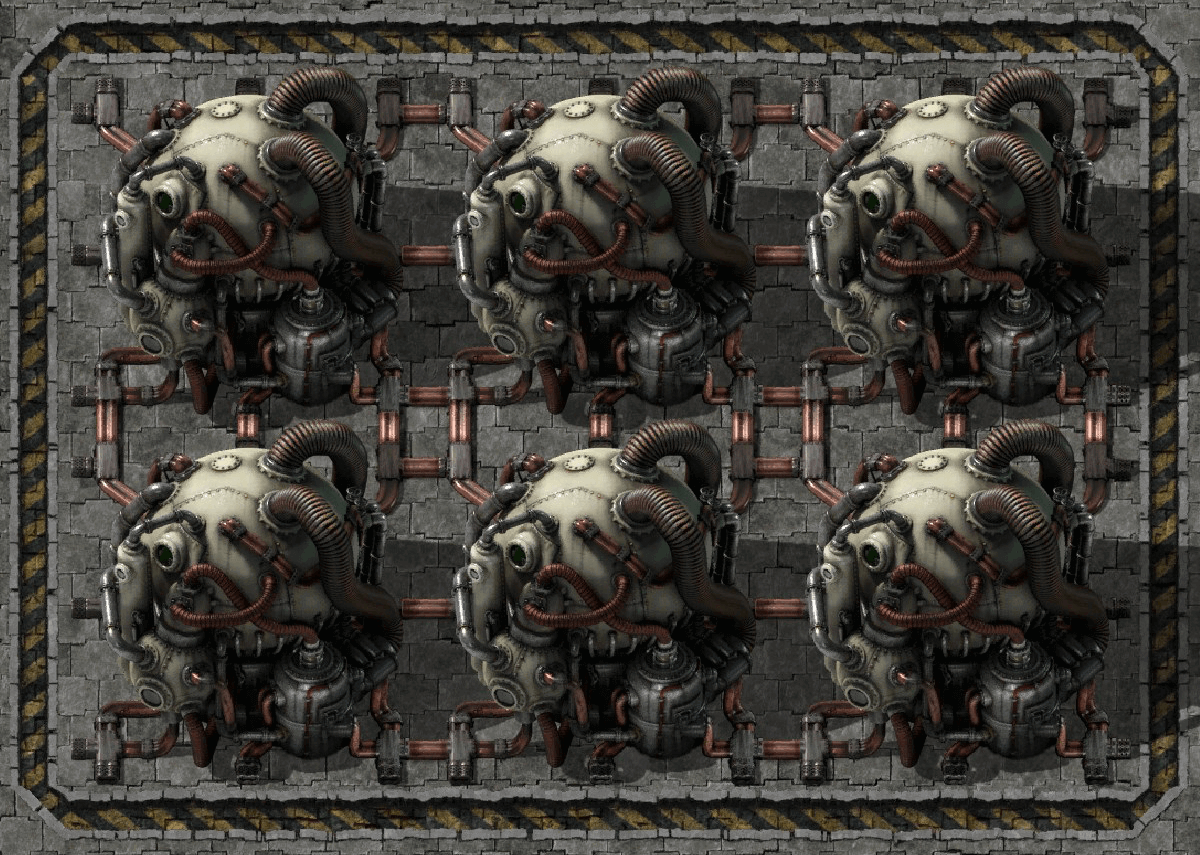
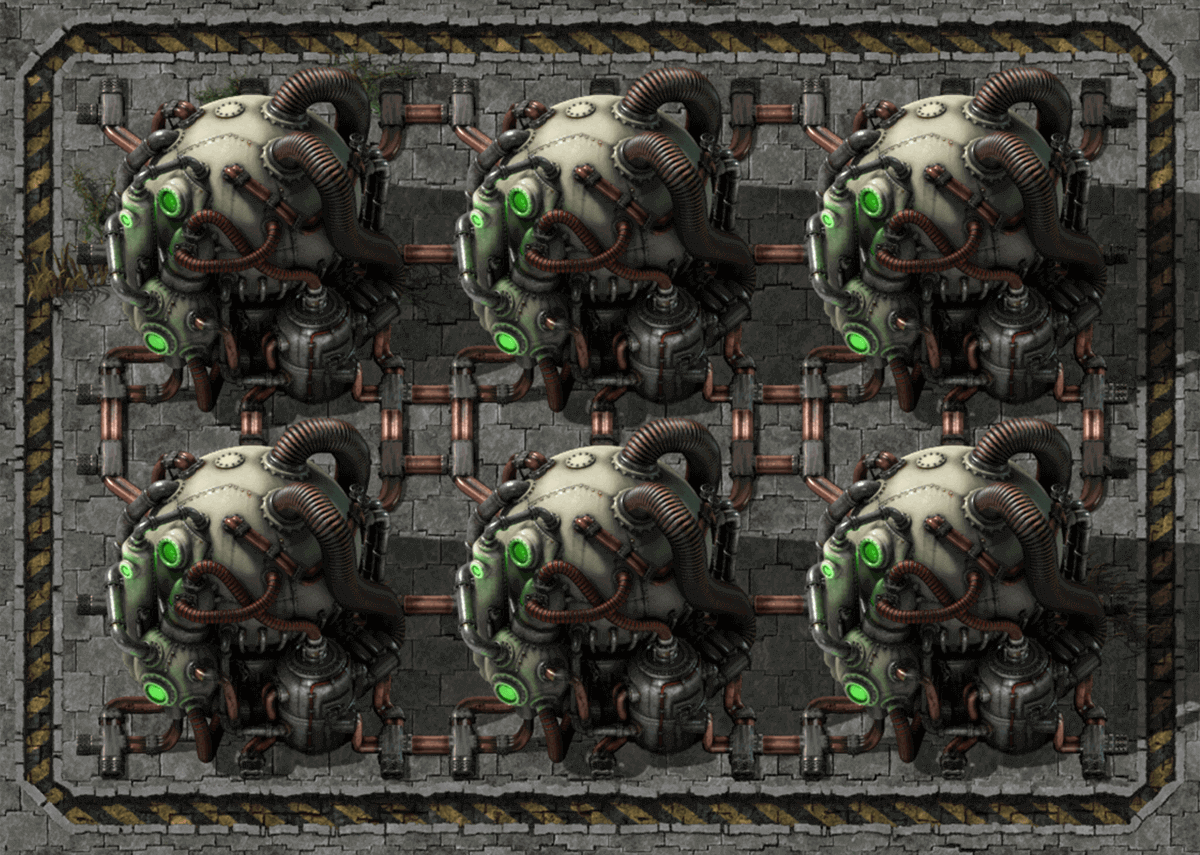
#85 #152 #167 Image work
* #167 Add Direct mining to Train Wagon
* #152 Update the images in the balancer section
* #85 Add Blet Weaving to the tips section
* #85 Update train stack loading image to 0.17 high res
* Changed nuke power image to ahve reactors on

Changed region(s): [[0.0, 0.0, 1.0, 1.0], [0.3083, 0.3345, 0.3392, 0.3649]]

diff --git a/src/app/views/cheat-sheets/balancers/balancers.component.html b/src/app/views/cheat-sheets/balancers/balancers.component.html
@@ -1,7 +1,7 @@
 <app-cheat-sheet [cheatSheet]="cheatSheet">
     <p class="card-text">
         <strong><a href="https://wiki.factorio.com/Balancer_mechanics">Balancers</a></strong> are used to evenly
-        distribute items over multiple belts.
+        distribute items over multiple belts, commonly used at aore patches or the <a href="https://wiki.factorio.com/Tutorial:Main_bus#Split-off">Main Bus</a>.
     </p>
     <ul>
         <li>
@@ -19,16 +19,16 @@
     <div class="row">
         <div class="col-12 col-md-7 align-items-center text-center">
             <p>
-                <strong>4 to 4 balancer</strong>
+                <strong>4 lane balancer</strong>
                 <br>
-                <img src="{{APP_SETTINGS.links.getLocalImagePath('4-to-4-balancer.png')}}" class="img-fluid rounded"
-                    alt="4 to 4 Balancer" title="4 to 4 Balancer">
+                <img src="{{APP_SETTINGS.links.getLocalImagePath('balancer-4x4.png')}}" class="img-fluid rounded"
+                    alt="4 lane Balancer" title="4 lane Balancer">
             </p>
             <p>
-                <strong>1 belt lane balancer</strong>
+                <strong>Balanced 2 lane split</strong>
                 <br>
-                <img src="{{APP_SETTINGS.links.getLocalImagePath('1-lane-balancer.png')}}" class="img-fluid rounded"
-                    alt="1 Belt Lane Balancer" title="1 Belt Lane Balancer">
+                <img src="{{APP_SETTINGS.links.getLocalImagePath('balancer-4x4-split-off.png')}}" class="img-fluid rounded"
+                    alt="balanced 2 lane split" title="balanced 2 lane split">
             </p>
         </div>
         <div class="col-12 col-md-5">

diff --git a/src/app/views/cheat-sheets/tips/tips.component.html b/src/app/views/cheat-sheets/tips/tips.component.html
@@ -98,14 +98,20 @@
         </li>
     </ul>
 
-    <div class="row">
-        <div class="col text-center">
-            Underground belts can be side loaded, this will drain only 1 lane of a belt. <br>
+    <hr>
+
+    <div class="row align-items-center justify-content-around">
+        <div class="col-6 col-lg-4 col-print-4 text-center">
+            <strong>Underground belts can be side loaded</strong><br>
             <img src="{{APP_SETTINGS.links.getLocalImagePath('belt-tip-sideload.png')}}" class="img-fluid rounded" style="max-height: 250px; width: auto;" alt="Side Load Underground" title="Side Load Underground">
         </div>
-        <div class="col text-center">
-            Splitters can have an item filter set on a specific lane <br>
+        <div class="col-6 col-lg-4 col-print-4 text-center">
+            <strong>Splitters can filter items</strong><br>
             <img src="{{APP_SETTINGS.links.getLocalImagePath('belt-tip-filter.png')}}" class="img-fluid rounded" style="max-height: 250px; width: auto;" alt="Splitter Filter" title="Splitter Filter">
+        </div>
+        <div class="col-6 col-lg-4 col-print-4 text-center">
+            <strong>Belts can be weaved</strong><br>
+            <img src="{{APP_SETTINGS.links.getLocalImagePath('belt-weaving.png')}}" class="img-fluid rounded" style="max-height: 250px; width: auto;" alt="Splitter Filter" title="Splitter Filter">
         </div>
     </div>
 

diff --git a/src/app/views/cheat-sheets/cargo-wagon-transfer/cargo-wagon-transfer.component.html b/src/app/views/cheat-sheets/cargo-wagon-transfer/cargo-wagon-transfer.component.html
@@ -57,7 +57,7 @@
         </div>
         <div class="col-12 col-md-5 text-center">
             <span><strong>Cargo Loading Setup</strong></span><br>
-            <img src="{{APP_SETTINGS.links.getLocalImagePath('train-stack-load.jpg')}}" class="img-fluid rounded" alt="Wagon Load" title="Wagon Load">
+            <img src="{{APP_SETTINGS.links.getLocalImagePath('train-stack-load.png')}}" class="img-fluid rounded" alt="Wagon Load" title="Wagon Load">
         </div>
     </div>
 

diff --git a/src/app/views/cheat-sheets/fluid-wagon-transfer/fluid-wagon-transfer.component.html b/src/app/views/cheat-sheets/fluid-wagon-transfer/fluid-wagon-transfer.component.html
@@ -62,7 +62,7 @@
     <br>
     <hr>
 
-    <div class="row align-items-center">
+    <div class="row align-items-center justify-content-around">
         <div class="col text-center col-print-4">
             <span><strong>Tanker-Pump Alignment</strong></span><br>
             <img src="{{APP_SETTINGS.links.getLocalImagePath('Wagon-Alignment.gif')}}" class="img-fluid rounded" alt="Tanker-Pump Alignment" title="Tanker-Pump Alignment">
